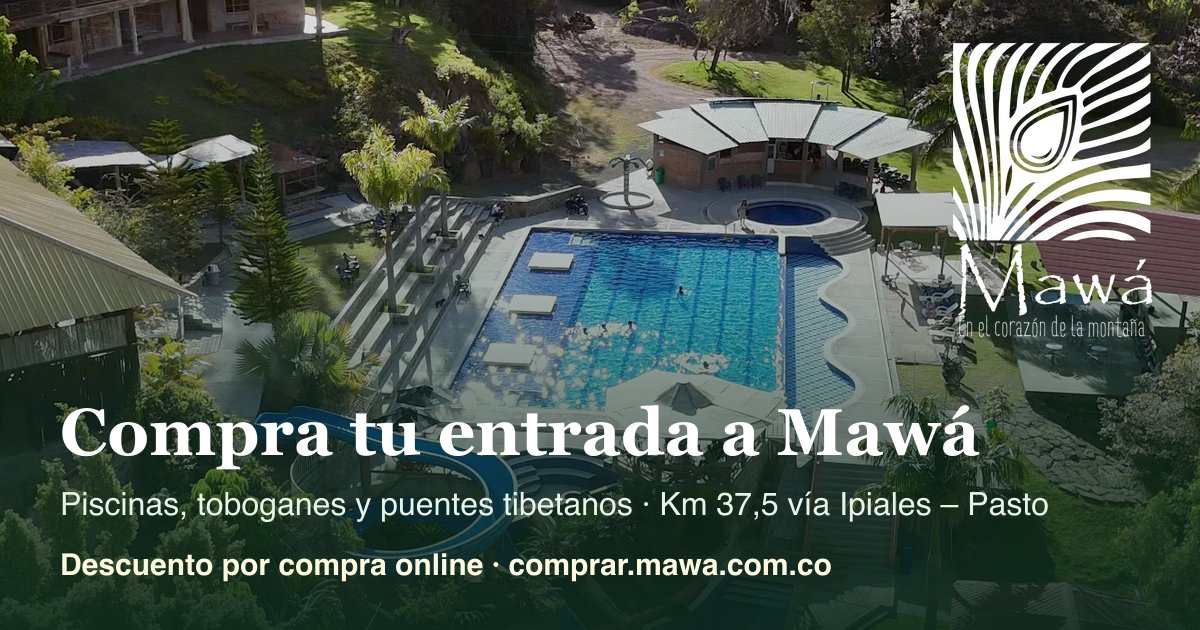
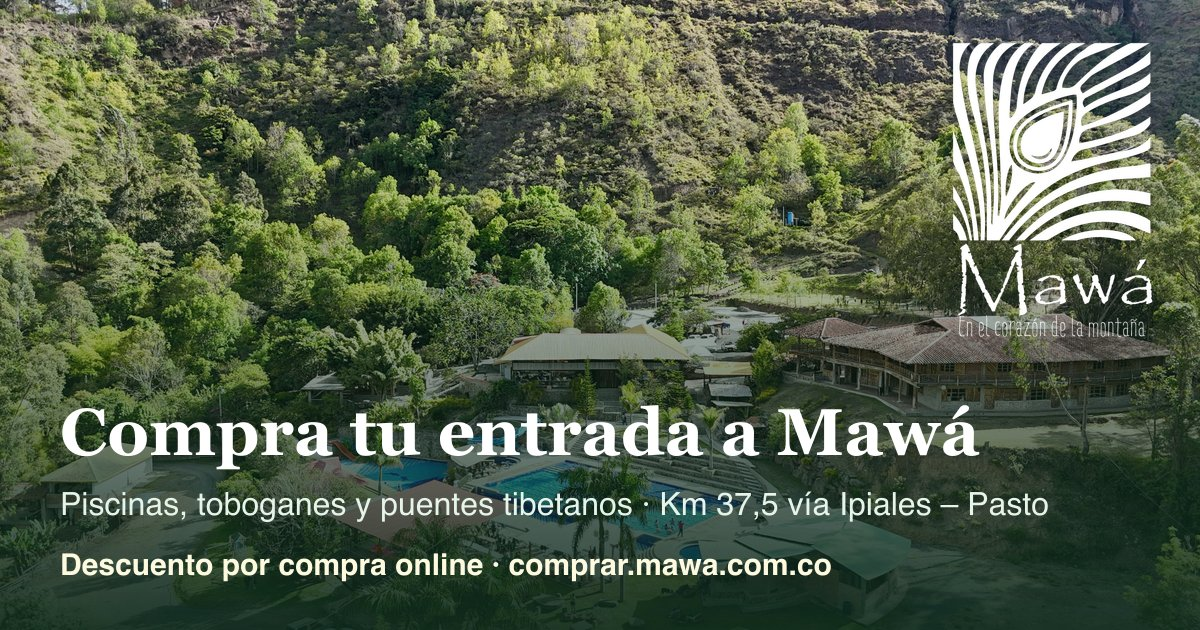
feat(tienda): foco en la venta — compra bajo el hero, CTA fijo en cabecera, panorámica como hero, WhatsApp 323 572 0613
- Sección de compra pasa justo debajo del hero; 'Qué te espera' queda después
  con un CTA de regreso a los planes. Cabecera con botón 'Comprar entradas'
  (WhatsApp solo ícono en móvil).
- Hero y OG con la panorámica aérea de hotel + piscinas (Panoramica2).
- Número de WhatsApp de la tienda: +57 323 572 0613 (site.ts, FAQ, footer).

diff --git a/src/components/tienda/Header.tsx b/src/components/tienda/Header.tsx
@@ -24,17 +24,23 @@ export default function Header({ solido = false }: Props) {
           </span>
         </Link>
         <nav className="flex items-center gap-2 sm:gap-4 text-sm font-semibold">
-          <Link href="/#planes" className="hidden sm:inline hover:text-mawa-crema transition-colors">Planes</Link>
           <Link href="/#faq" className="hidden sm:inline hover:text-mawa-crema transition-colors">Preguntas</Link>
           <a
             href={WHATSAPP_URL}
             target="_blank"
             rel="noopener noreferrer"
-            className="inline-flex items-center gap-2 bg-whatsapp hover:bg-[#1ebe5b] text-white rounded-full px-4 py-2 transition-colors shadow"
+            aria-label="Escríbenos por WhatsApp"
+            className="inline-flex items-center gap-2 bg-whatsapp hover:bg-[#1ebe5b] text-white rounded-full p-2.5 sm:px-4 sm:py-2 transition-colors shadow"
           >
             <IconoWhatsApp className="w-4 h-4" />
-            <span>WhatsApp</span>
+            <span className="hidden sm:inline">WhatsApp</span>
           </a>
+          <Link
+            href="/#planes"
+            className="inline-flex items-center gap-2 bg-mawa-gradient text-white rounded-full px-4 py-2 sm:px-5 shadow hover:brightness-110 transition"
+          >
+            Comprar entradas
+          </Link>
         </nav>
       </div>
     </header>

diff --git a/src/components/tienda/Hero.tsx b/src/components/tienda/Hero.tsx
@@ -6,12 +6,12 @@ export default function Hero() {
   return (
     <section className="relative min-h-[680px] sm:min-h-[80vh] flex items-end text-white overflow-hidden bg-mawa-verde-950">
       <Image
-        src="/fotos/hero-piscina-1280.webp"
-        alt="Vista aérea de las piscinas y toboganes de Mawá entre la montaña"
+        src="/fotos/aerea-hotel-1920.webp"
+        alt="Vista aérea de Mawá: piscinas, restaurante y hotel en medio de la montaña"
         fill
         priority
         sizes="100vw"
-        className="object-cover object-[50%_45%]"
+        className="object-cover object-[50%_60%]"
       />
       <div className="absolute inset-0 bg-gradient-to-t from-mawa-verde-950 via-mawa-verde-950/55 to-black/20" />
 
@@ -33,7 +33,7 @@ export default function Hero() {
             href="#planes"
             className="inline-flex items-center justify-center gap-2 bg-mawa-gradient text-white font-bold text-lg rounded-full px-8 py-4 shadow-lg shadow-black/30 hover:brightness-110 transition"
           >
-            Ver planes y comprar
+            Comprar entradas
             <IconoFlecha className="w-5 h-5" />
           </a>
           <span className="text-sm text-white/80 sm:ml-2">Desde $40.000 por persona</span>

diff --git a/src/components/tienda/Footer.tsx b/src/components/tienda/Footer.tsx
@@ -1,7 +1,7 @@
 import Image from 'next/image'
 import Link from 'next/link'
 import { LUGAR } from '@/lib/contenido'
-import { WHATSAPP_URL } from '@/lib/site'
+import { WHATSAPP_URL, WHATSAPP_VISIBLE } from '@/lib/site'
 import { IconoInstagram, IconoPin, IconoReloj, IconoWhatsApp } from './Iconos'
 
 export default function Footer() {
@@ -21,7 +21,7 @@ export default function Footer() {
         </div>
         <div className="text-sm space-y-3">
           <a href={WHATSAPP_URL} target="_blank" rel="noopener noreferrer" className="flex items-center gap-2 hover:text-white">
-            <IconoWhatsApp className="w-4 h-4 text-mawa-verde-400" /> 316 399 6541
+            <IconoWhatsApp className="w-4 h-4 text-mawa-verde-400" /> {WHATSAPP_VISIBLE}
           </a>
           <a href={LUGAR.instagram} target="_blank" rel="noopener noreferrer" className="flex items-center gap-2 hover:text-white">
             <IconoInstagram className="w-4 h-4 text-mawa-verde-400" /> {LUGAR.instagramUsuario}

diff --git a/src/components/tienda/Experiencias.tsx b/src/components/tienda/Experiencias.tsx
@@ -1,5 +1,6 @@
 import Image from 'next/image'
 import { EXPERIENCIAS } from '@/lib/contenido'
+import { IconoFlecha } from './Iconos'
 
 export default function Experiencias() {
   return (
@@ -31,6 +32,16 @@ export default function Experiencias() {
             </div>
           </article>
         ))}
+      </div>
+
+      <div className="mt-10 flex justify-center">
+        <a
+          href="#planes"
+          className="inline-flex items-center gap-2 bg-mawa-verde-700 hover:bg-mawa-verde-900 text-white font-bold rounded-full px-8 py-4 transition-colors shadow-lg shadow-mawa-verde-900/20"
+        >
+          Comprar mis entradas con descuento
+          <IconoFlecha className="w-5 h-5 rotate-180" />
+        </a>
       </div>
     </section>
   )

diff --git a/src/components/tienda/Faq.tsx b/src/components/tienda/Faq.tsx
@@ -1,5 +1,5 @@
 import { FAQS } from '@/lib/contenido'
-import { WHATSAPP_URL } from '@/lib/site'
+import { WHATSAPP_URL, WHATSAPP_VISIBLE } from '@/lib/site'
 import { IconoWhatsApp } from './Iconos'
 
 export default function Faq() {
@@ -34,7 +34,7 @@ export default function Faq() {
           className="inline-flex items-center justify-center gap-2 bg-whatsapp hover:bg-[#1ebe5b] text-white font-semibold rounded-full px-6 py-3 transition-colors"
         >
           <IconoWhatsApp />
-          316 399 6541
+          {WHATSAPP_VISIBLE}
         </a>
       </div>
     </section>

diff --git a/src/lib/site.ts b/src/lib/site.ts
@@ -1,3 +1,4 @@
 export const SITE_URL = 'https://comprar.mawa.com.co'
-export const WHATSAPP_NUMERO = '573163996541'
+export const WHATSAPP_NUMERO = '573235720613'
+export const WHATSAPP_VISIBLE = '323 572 0613'
 export const WHATSAPP_URL = `https://wa.me/${WHATSAPP_NUMERO}`

diff --git a/src/app/page.tsx b/src/app/page.tsx
@@ -14,8 +14,8 @@ export default function TiendaPage() {
       <Header />
       <main>
         <Hero />
-        <Experiencias />
         <Comprar />
+        <Experiencias />
         <ComoFunciona />
         <Faq />
         <Galeria />
